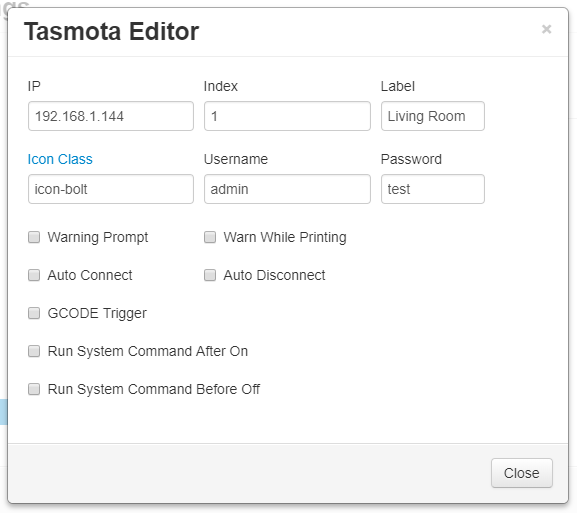
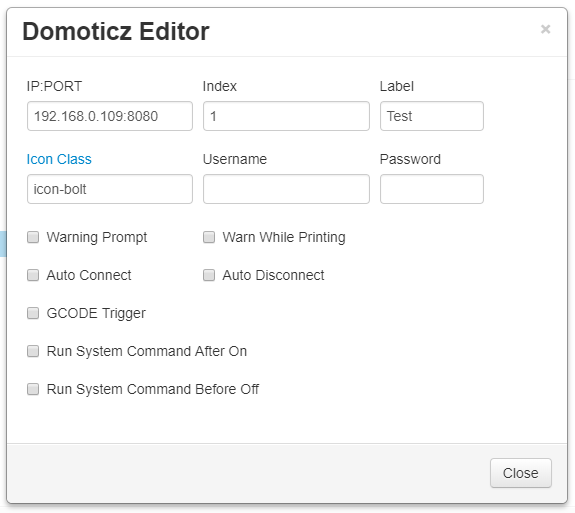
0.0.2

diff --git a/octoprint_domoticz/__init__.py b/octoprint_domoticz/__init__.py
@@ -11,6 +11,7 @@ import os
 import re
 import urllib2
 import threading
+import base64
 
 class domoticzPlugin(octoprint.plugin.SettingsPlugin,
                             octoprint.plugin.AssetPlugin,
@@ -85,12 +86,15 @@ class domoticzPlugin(octoprint.plugin.SettingsPlugin,
 		
 	##~~ SimpleApiPlugin mixin
 	
-	def turn_on(self, plugip, plugidx, username="admin", password=""):
+	def turn_on(self, plugip, plugidx, username="", password=""):
 		if self._settings.get(['singleRelay']):
 			plugidx = ''
 		self._domoticz_logger.debug("Turning on %s index %s." % (plugip, plugidx))
 		try:
-			webresponse = urllib2.urlopen("http://" + plugip + "/json.htm?type=command&param=switchlight&idx=" + str(plugidx) + "&switchcmd=On").read()
+			strURL = "http://" + plugip + "/json.htm?type=command&param=switchlight&idx=" + str(plugidx) + "&switchcmd=On"
+			if username != "":
+				strURL = strURL + "&username=" + base64.b64encode(bytes(username)) + "&password=" + base64.b64encode(bytes(password))
+			webresponse = urllib2.urlopen(strURL).read()
 			response = json.loads(webresponse)
 			chk = response["status"]
 		except:			
@@ -105,10 +109,13 @@ class domoticzPlugin(octoprint.plugin.SettingsPlugin,
 			self._domoticz_logger.debug(response)
 			self._plugin_manager.send_plugin_message(self._identifier, dict(currentState="unknown",ip=plugip,idx=plugidx))
 	
-	def turn_off(self, plugip, plugidx, username="admin", password=""):
+	def turn_off(self, plugip, plugidx, username="", password=""):
 		self._domoticz_logger.debug("Turning off %s index %s." % (plugip, plugidx))
 		try:
-			webresponse = urllib2.urlopen("http://" + plugip + "/json.htm?type=command&param=switchlight&idx=" + str(plugidx) + "&switchcmd=Off").read()
+			strURL = "http://" + plugip + "/json.htm?type=command&param=switchlight&idx=" + str(plugidx) + "&switchcmd=Off"
+			if username != "":
+				strURL = strURL + "&username=" + base64.b64encode(bytes(username)) + "&password=" + base64.b64encode(bytes(password))
+			webresponse = urllib2.urlopen(strURL).read()
 			response = json.loads(webresponse)
 			chk = response["status"]
 		except:
@@ -123,11 +130,14 @@ class domoticzPlugin(octoprint.plugin.SettingsPlugin,
 			self._domoticz_logger.debug(response)
 			self._plugin_manager.send_plugin_message(self._identifier, dict(currentState="unknown",ip=plugip,idx=plugidx))
 		
-	def check_status(self, plugip, plugidx, username="admin", password=""):
+	def check_status(self, plugip, plugidx, username="", password=""):
 		self._domoticz_logger.debug("Checking status of %s index %s." % (plugip, plugidx))
 		if plugip != "":
 			try:
-				webresponse = urllib2.urlopen("http://" + plugip + "/json.htm?type=devices&rid=" + str(plugidx)).read()
+				strURL = "http://" + plugip + "/json.htm?type=devices&rid=" + str(plugidx)
+				if username != "":
+					strURL = strURL + "&username=" + base64.b64encode(bytes(username)) + "&password=" + base64.b64encode(bytes(password))				
+				webresponse = urllib2.urlopen(strURL).read()
 				self._domoticz_logger.debug("%s index %s response: %s" % (plugip, plugidx, webresponse))
 				response = json.loads(webresponse)
 				chk = response["result"][0]["Status"]

diff --git a/setup.py b/setup.py
@@ -14,7 +14,7 @@ plugin_package = "octoprint_domoticz"
 plugin_name = "OctoPrint-Domoticz"
 
 # The plugin's version. Can be overwritten within OctoPrint's internal data via __plugin_version__ in the plugin module
-plugin_version = "0.0.1"
+plugin_version = "0.0.2"
 
 # The plugin's description. Can be overwritten within OctoPrint's internal data via __plugin_description__ in the plugin
 # module

diff --git a/README.md b/README.md
@@ -26,7 +26,7 @@ Once installed go into settings and enter the ip address for your TP-Link Smartp
 ## Settings Explained
 
 - **Device**
-  - The ip and port of domoticz server.
+  - The ip and port of Domoticz server.
 - **Index**
   - Index number reprensenting the switch to control.
 - **Icon**
@@ -34,9 +34,9 @@ Once installed go into settings and enter the ip address for your TP-Link Smartp
 - **Label**
   - Title attribute on icon that shows on mouseover.
 - **Username**
-  - Username to connect to web interface.  Currently not configurable in Domoticz, use the default username admin.
+  - Username used to connect to web interface. If authentication is not configured on your Domoticz server leave this blank.
 - **Password**
-  - Password configured for Web Admin Portal of Domoticz device.
+  - Password used to connect to web interface. If authentication is not configured on your Domoticz server leave this blank.
 - **Warn**
   - The left checkbox will always warn when checked.
   - The right checkbox will only warn when printer is printing.

diff --git a/changelog.md b/changelog.md
@@ -1,0 +1,20 @@
+# Changelog
+All notable changes to this project will be documented in this file.
+
+The format is based on [Keep a Changelog](http://keepachangelog.com/en/1.0.0/)
+and this project adheres to [Semantic Versioning](http://semver.org/spec/v2.0.0.html).
+
+## [0.0.2] - 2018-07-07
+### Added
+- User authentication to Domoticz server.
+
+### Notes
+- If authenthication is not enabled leave username and password blank.
+- Passwords are stored in plain text and encoded during web call.
+
+## [0.0.1] - 2018-07-06
+### Added
+- Initial release.
+
+[0.0.2]: https://github.com/jneilliii/OctoPrint-Domoticz/tree/0.0.2
+[0.0.1]: https://github.com/jneilliii/OctoPrint-Domoticz/tree/0.0.1
